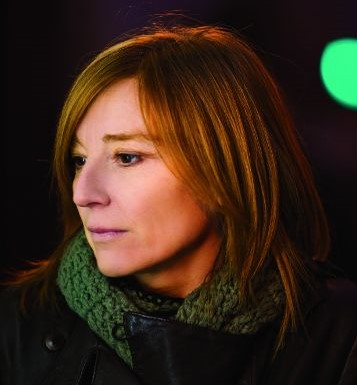
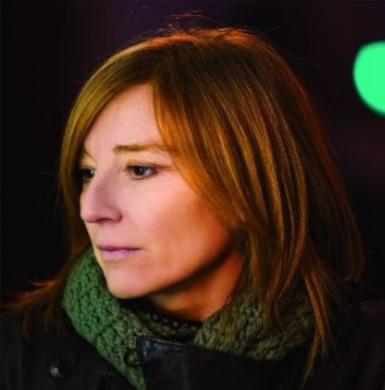
Minor fix of the images dimentions

diff --git a/index.html b/index.html
@@ -155,7 +155,7 @@
               Beth Gibbon
             </figcaption>
           </figure>
-          <p class="lead">singer and lyricist</p>
+          <p>singer and lyricist</p>
           <button class="btn btn-white mt-3" data-toggle="tooltip" data-html="true" data-placement="top" title="<p>She was raised on a small farm with two sisters near Exeter city, England.<br/>She has cited Nina Simone, Janis Joplin, Edith Piaf, Janis Ian and Elizabeth Fraser, as female musical influences.</p> ">
             More about Beth&nbsp;Gibbon&nbsp;&raquo;
           </button>
@@ -169,7 +169,7 @@
                   Geoff Barrow
                 </figcaption>
           </figure>
-            <p class="lead">composer and multi-instrumentalist</p>
+            <p>composer and multi-instrumentalist</p>
             <button class="btn btn-white mt-3" data-toggle="tooltip" data-html="true" data-placement="bottom" title="<p>Barrow is also a member of the band Beak and hip-hop supergroup Quakers and a film score composer.<br/> 'I just wanted to make interesting music, proper songs with a proper life span and a decent place in people's record collections.' (c)Geoff Barrow</p> ">
               More about Geoff&nbsp;Barrow&nbsp;&raquo;
             </button>
@@ -183,7 +183,7 @@
                   Adrian Utley
                 </figcaption>
           </figure>
-            <p class="lead"> music producer and multi-instrumentalist</p>
+            <p> music producer and multi-instrumentalist</p>
             <button class="btn btn-white mt-3" data-toggle="tooltip" data-placement="bottom" title="During his career, Utley has recorded with artists as diverse as Marilyn Manson, Jeff Beck, Torres, Perfume Genius, Alain Bashung and Marianne Faithfull. He built up a collection of vintage instruments and studio equipment.">
               More about Adrian&nbsp;Utley&nbsp;&raquo;
             </button>

diff --git a/assets/css/style.css b/assets/css/style.css
@@ -239,6 +239,7 @@ body {
 
 .musician-img {
     border-radius: 50%;
+    object-fit: cover;
     -webkit-backface-visibility: hidden;
     backface-visibility: hidden;
     transition: all .5s ease-in-out;
